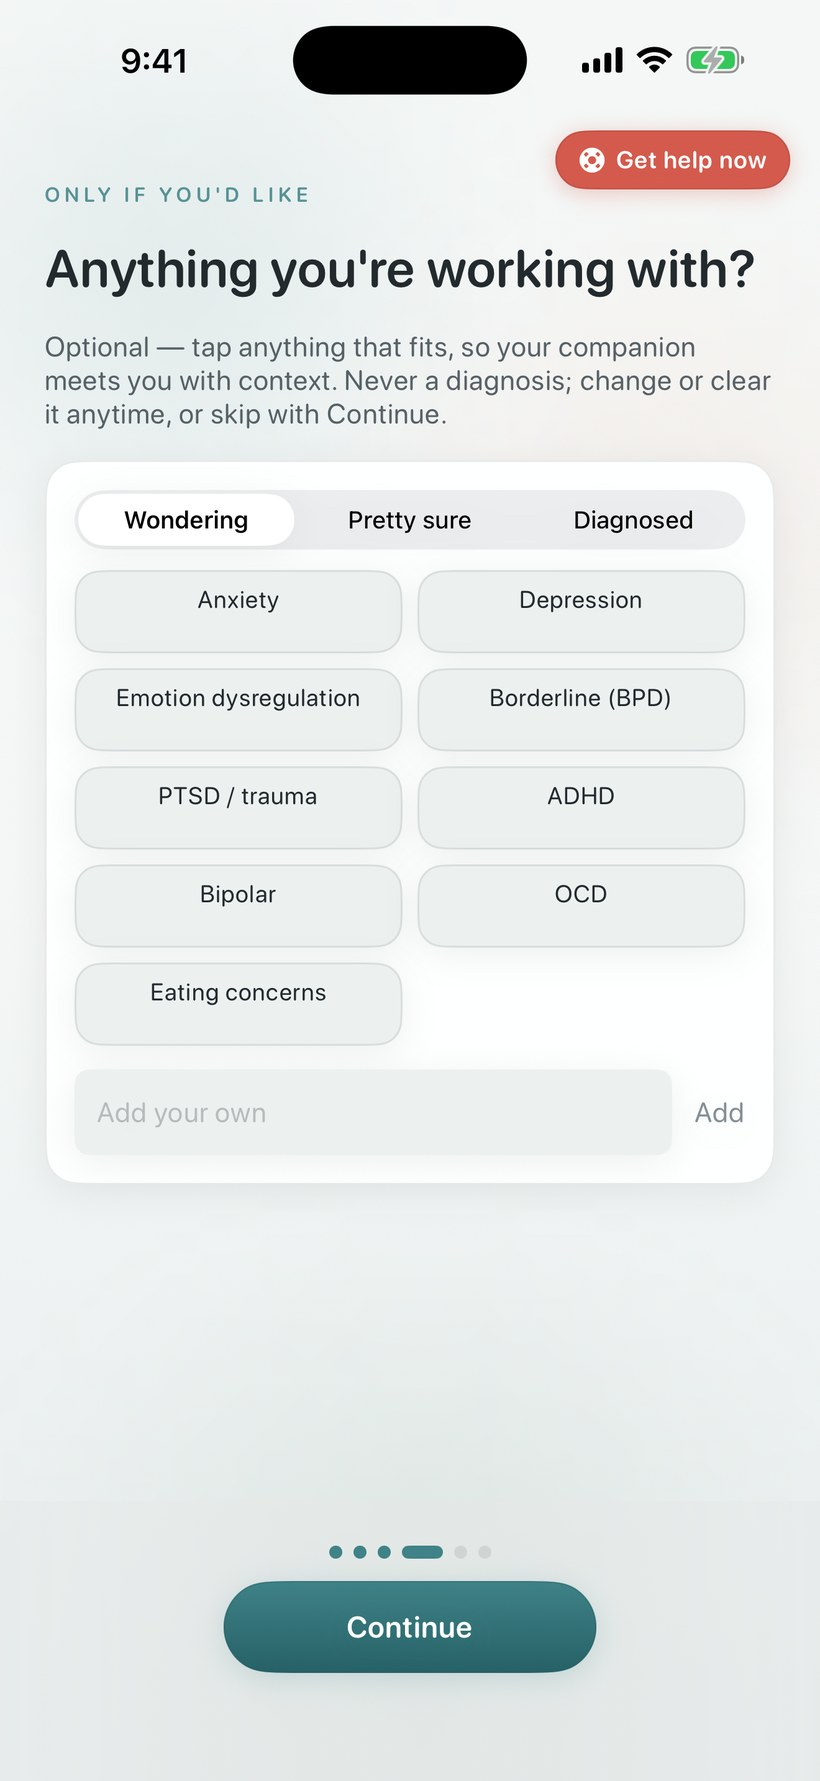
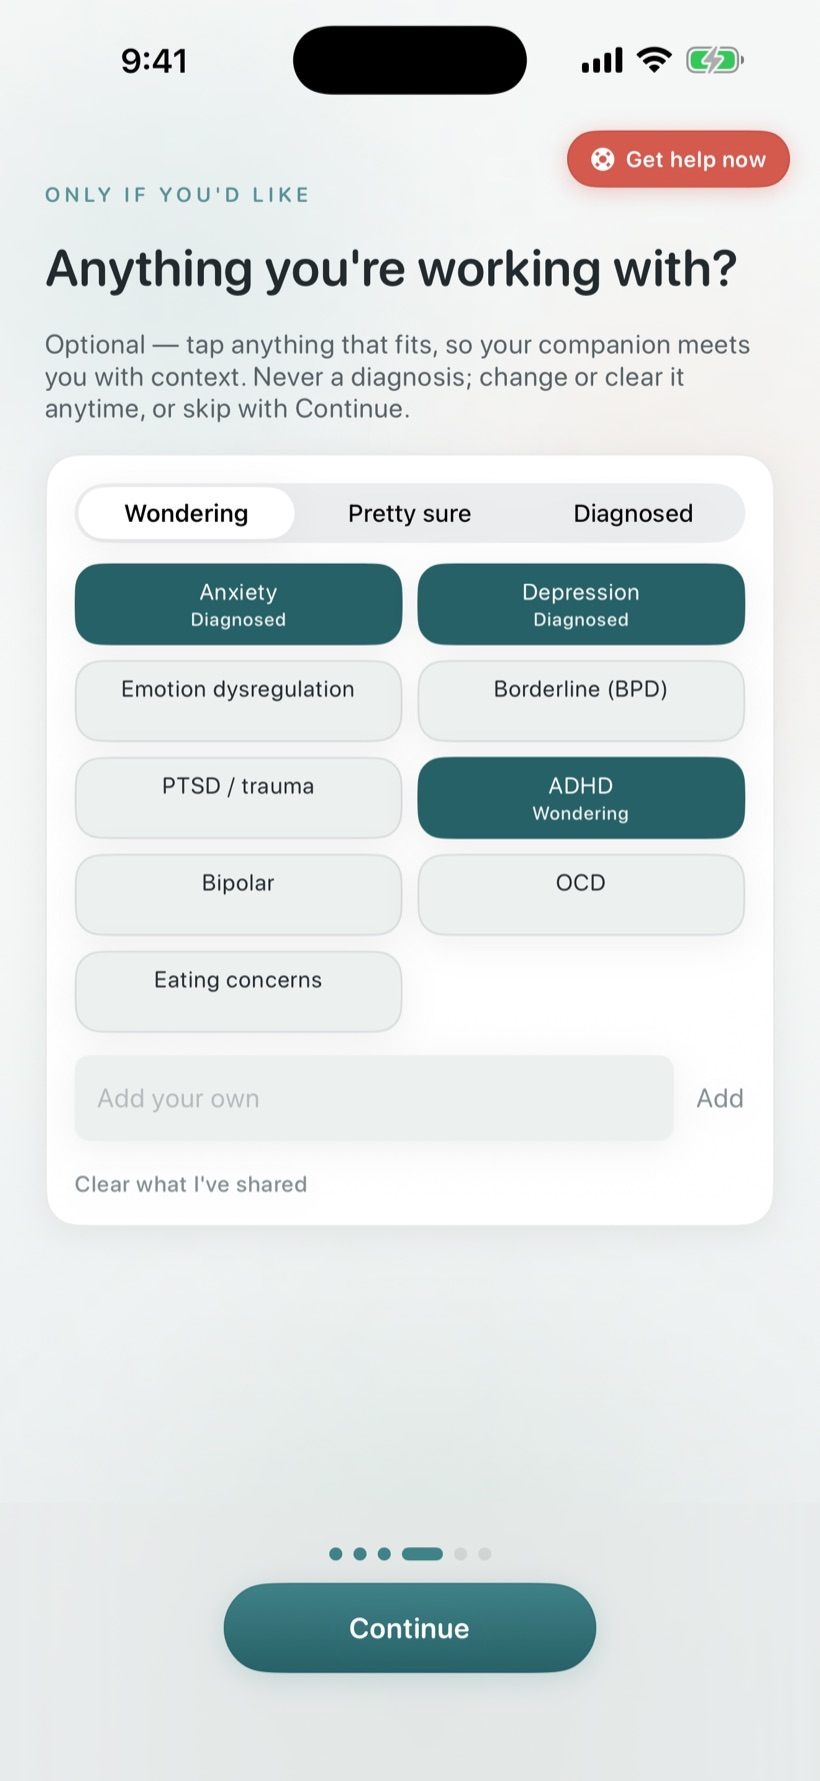
Update conditions screenshot to the new level-picker design
Replace the onboarding conditions mockup with the redesigned screen: a
compact chip grid + a visible Wondering / Pretty sure / Diagnosed level
picker, so the diagnosed-vs-exploring choice is on-screen instead of
hidden in a tap-menu. Bump the cache-buster so it refreshes.

diff --git a/index.html b/index.html
@@ -596,7 +596,7 @@
     <div class="container">
       <div class="spotlight-grid">
         <div class="spotlight-phone">
-          <div class="screen-frame"><img src="screenshots/06-context.jpg?v=20260624q" alt="Quietoak onboarding — sharing what you're navigating, diagnosed or exploring" loading="lazy"></div>
+          <div class="screen-frame"><img src="screenshots/06-context.jpg?v=20260624cond2" alt="Quietoak onboarding — sharing what you're navigating, with a diagnosed / exploring level picker" loading="lazy"></div>
         </div>
         <div>
           <div class="section-eyebrow">Knows you better</div>